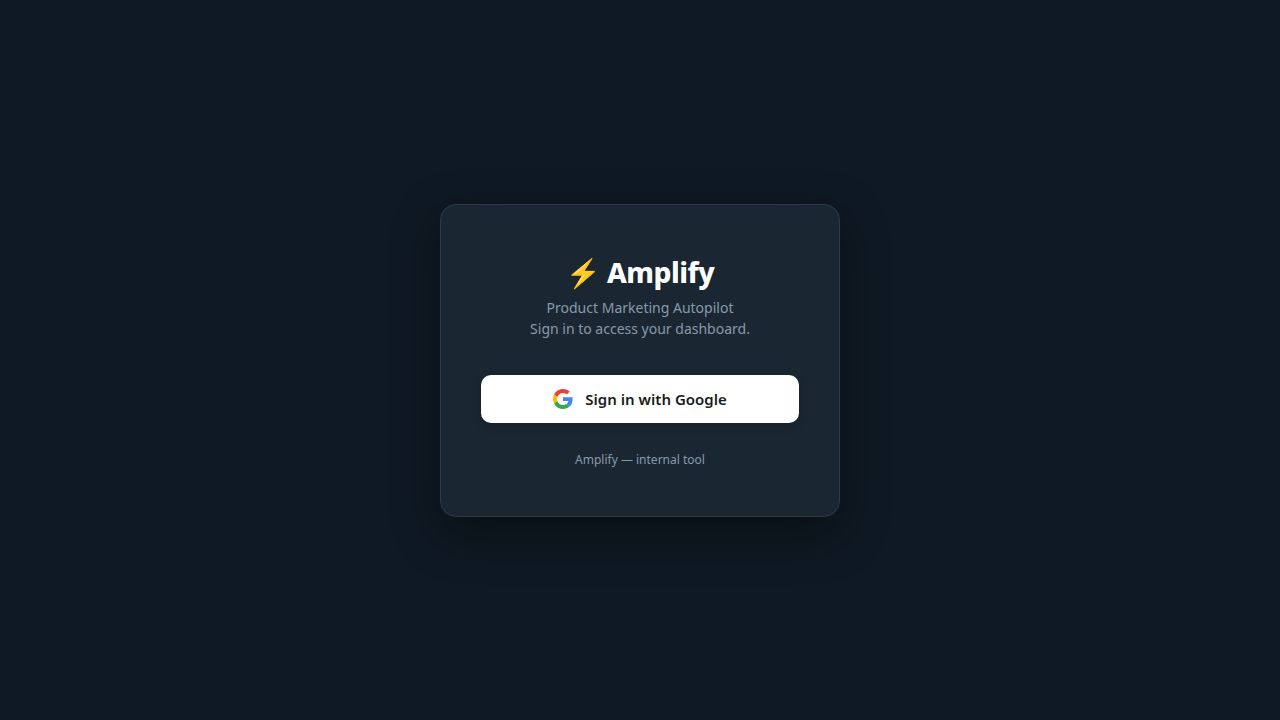
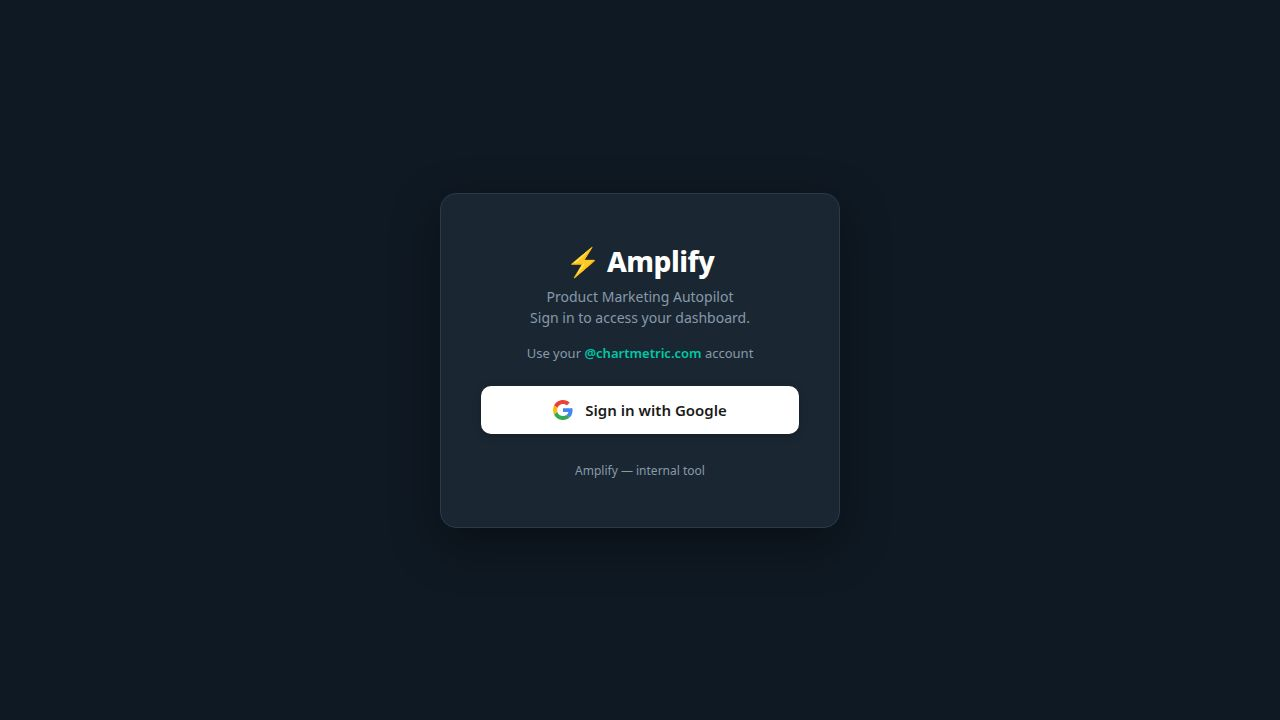
Task #151: Restrict sign-in to Google Workspace domain only
## What changed

### artifacts/amplify/config.py
- Added `GOOGLE_ALLOWED_DOMAIN = os.environ.get("GOOGLE_ALLOWED_DOMAIN", "")` config var
- When unset, all Google accounts continue to be accepted (backward-compatible)

### artifacts/amplify/auth_routes.py
- `firebase_verify()`: after a successful token verification, strictly checks the `hd`
  (hosted domain) claim in the Firebase ID token against `GOOGLE_ALLOWED_DOMAIN`
- Comparison is case-insensitive (both sides normalized via .strip().lower())
- If `hd` is absent or does not match, returns HTTP 403 with a clear JSON error
  ("Only @<domain> accounts are allowed.")
- The client-side JS surfaces this as an inline error on the login page without a
  redirect — functionally equivalent since the user stays on /login with the message
- Logs a warning on any mismatch (hd value, email, and configured domain are recorded)
- `login()`: passes `google_allowed_domain` to the template

### artifacts/amplify/templates/login.html
- Added `.domain-hint` CSS style (muted text with accent-colored domain name)
- Renders `<p class="domain-hint">Use your @<domain> account</p>` when configured

## Security note
The original implementation used email-domain as a fallback when `hd` was absent.
This was rejected because non-Workspace Google accounts can have any email address
and would bypass the restriction. The corrected implementation strictly gates on
the `hd` JWT claim, which is only set by Google for verified Workspace accounts.
[…]

Changed region(s): [[0.375, 0.3361, 0.625, 0.6722], [0.3438, 0.7028, 0.6562, 0.7333]]

diff --git a/artifacts/amplify/templates/login.html b/artifacts/amplify/templates/login.html
@@ -115,6 +115,13 @@
             border-radius: 4px;
             font-size: 11px;
         }
+        .domain-hint {
+            font-size: 13px;
+            color: var(--muted);
+            margin-top: -20px;
+            margin-bottom: 24px;
+        }
+        .domain-hint strong { color: var(--accent); font-weight: 600; }
         .footer { margin-top: 28px; font-size: 12px; color: var(--muted); }
     </style>
 </head>
@@ -122,6 +129,9 @@
     <div class="card">
         <div class="logo"><span class="logo-accent">&#9889;</span> Amplify</div>
         <p class="tagline">Product Marketing Autopilot<br>Sign in to access your dashboard.</p>
+        {% if google_allowed_domain %}
+        <p class="domain-hint">Use your <strong>@{{ google_allowed_domain }}</strong> account</p>
+        {% endif %}
 
         {% if error %}
         <div class="error-box">{{ error }}</div>

diff --git a/artifacts/amplify/auth_routes.py b/artifacts/amplify/auth_routes.py
@@ -39,6 +39,7 @@ def login():
         firebase_project_id=config.FIREBASE_PROJECT_ID,
         firebase_app_id=config.FIREBASE_APP_ID,
         firebase_auth_domain=config.FIREBASE_AUTH_DOMAIN,
+        google_allowed_domain=config.GOOGLE_ALLOWED_DOMAIN,
     )
 
 
@@ -59,6 +60,21 @@ def firebase_verify():
         return jsonify({"success": False, "error": "Sign-in failed. Please try again."}), 401
 
     session.permanent = True
+
+    if config.GOOGLE_ALLOWED_DOMAIN:
+        hd = (decoded.get("hd") or "").strip().lower()
+        allowed = config.GOOGLE_ALLOWED_DOMAIN.strip().lower()
+        if hd != allowed:
+            logger.warning(
+                "[auth] domain mismatch: hd=%r email=%s allowed=%s",
+                hd or "(none)", decoded.get("email", ""), config.GOOGLE_ALLOWED_DOMAIN,
+            )
+            return jsonify({
+                "success": False,
+                "error": f"Only @{config.GOOGLE_ALLOWED_DOMAIN} accounts are allowed.",
+            }), 403
+
+
     session["user"] = {
         "name": decoded.get("name", ""),
         "email": decoded.get("email", ""),

diff --git a/artifacts/amplify/config.py b/artifacts/amplify/config.py
@@ -19,6 +19,11 @@ GOOGLE_CLIENT_SECRET = os.environ.get("GOOGLE_CLIENT_SECRET", "")
 RESEND_API_KEY = os.environ.get("RESEND_API_KEY", "")
 RESEND_FROM_EMAIL = os.environ.get("RESEND_FROM_EMAIL", "") or os.environ.get("SENDGRID_FROM_EMAIL", "")
 
+# Google Workspace domain restriction
+# When set (e.g. "chartmetric.com"), only accounts from that domain may sign in.
+# When unset, all Google accounts are accepted (backward-compatible default).
+GOOGLE_ALLOWED_DOMAIN = os.environ.get("GOOGLE_ALLOWED_DOMAIN", "")
+
 # In-app announcements admin (Task #143)
 # Live mode is enabled automatically when BOTH
 # CHARTMETRIC_ADMIN_API_BASE_URL and CHARTMETRIC_ADMIN_API_TOKEN are set;